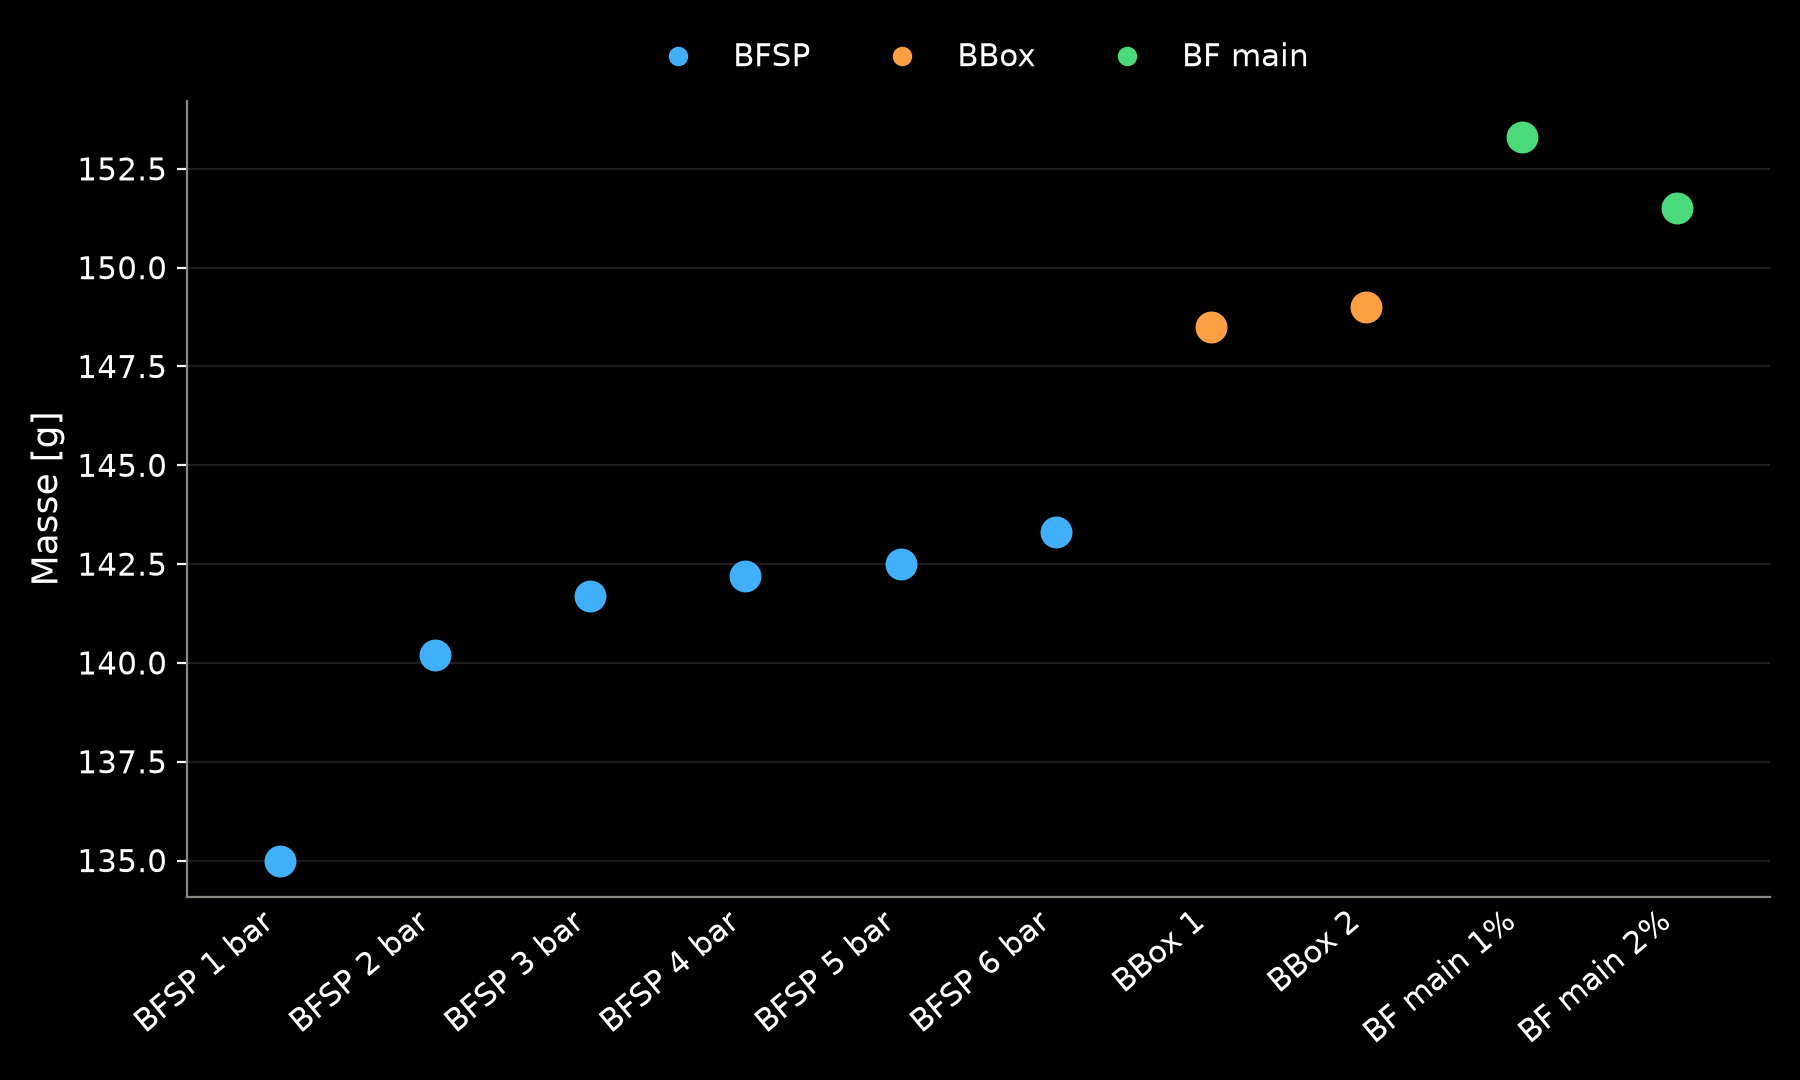
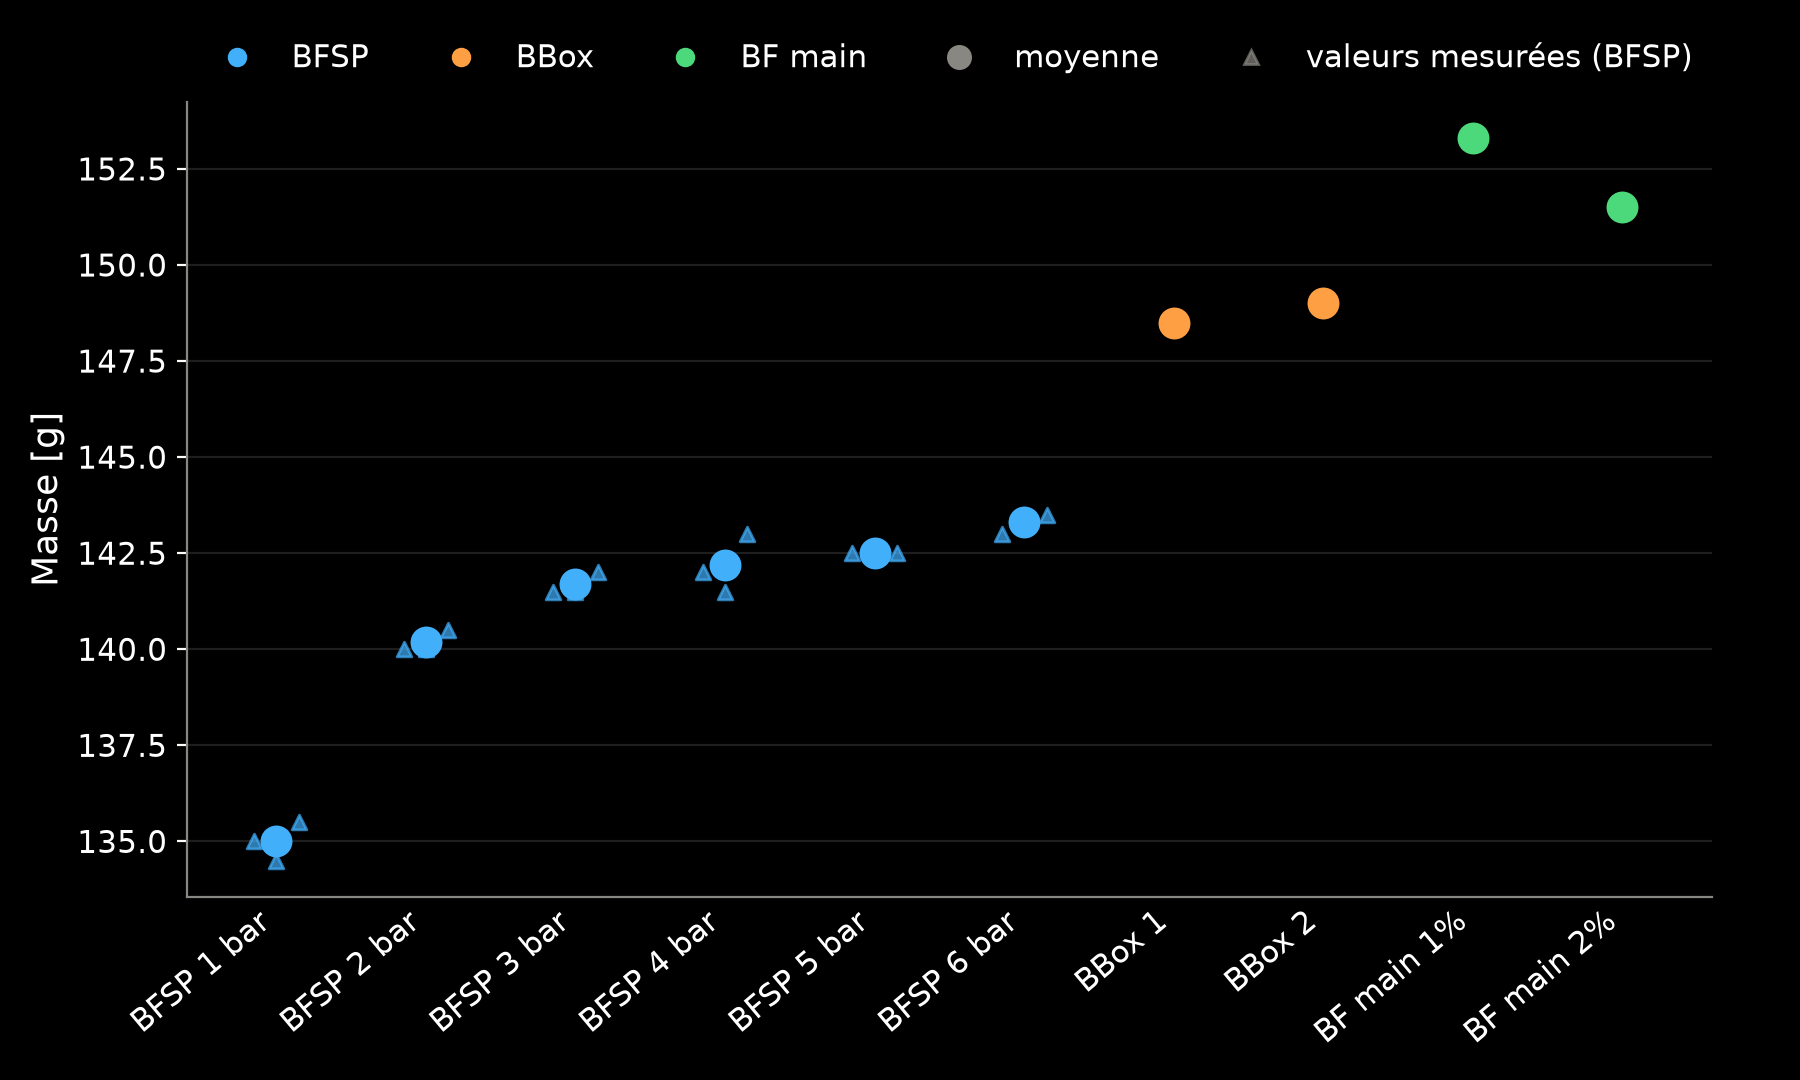
Add raw BFSP values as small triangles

diff --git a/scripts/plot_scatter.py b/scripts/plot_scatter.py
@@ -1,9 +1,11 @@
 """Scatterplots for Tableau 1-3 (masse, permeabilite, cisaillement), light + dark.
 
-One dot per sample, read from the first tbl-1 / tbl-2 / tbl-3 table in index.html
+One dot per sample (the mean), read from the first tbl-1 / tbl-2 / tbl-3 table in index.html
 so the slides and the plots share one source. Colour = method (BFSP, BBox, BF main).
+BFSP raw (non averaged) values from data/bfsp_raw.csv are added as small triangles.
 Writes figures/{masse,permeabilite,cisaillement}_{light,dark}.png.
 """
+import csv
 import re
 from pathlib import Path
 
@@ -38,6 +40,13 @@ def read_table(table_id):
     return out
 
 
+raw = {}
+with open(root / "data" / "bfsp_raw.csv") as f:
+    for r in csv.DictReader(f):
+        raw.setdefault(r["quantity"], {})[int(r["pression"])] = [
+            float(r[p]) for p in ("fond", "milieu", "devant")]
+
+
 def group_of(name):
     return next(g for g in ("BFSP", "BBox", "BF main") if name.startswith(g))
 
@@ -48,7 +57,12 @@ for q, (table_id, label) in QUANTITIES.items():
         fig, ax = plt.subplots(figsize=(9, 5.4), dpi=200, facecolor=c["bg"])
         ax.set_facecolor(c["bg"])
         for x, (name, v) in enumerate(pts):
-            ax.scatter(x, v, s=110, color=COLORS[group_of(name)], zorder=3)
+            col = COLORS[group_of(name)]
+            ax.scatter(x, v, s=110, color=col, zorder=3)
+            if name.startswith("BFSP"):
+                vals = raw[q][int(name.split()[1])]
+                ax.scatter([x - 0.15, x, x + 0.15], vals, s=28, marker="^", color=col,
+                           alpha=0.7, zorder=4)
         ax.set_xticks(range(len(pts)), [n for n, _ in pts], rotation=40, ha="right",
                       color=c["fg"], fontsize=11)
         ax.tick_params(axis="y", colors=c["fg"], labelsize=11)
@@ -63,7 +77,11 @@ for q, (table_id, label) in QUANTITIES.items():
         ax.set_xlim(-0.6, len(pts) - 0.4)
         handles = [Line2D([], [], marker="o", linestyle="", color=col, label=g)
                    for g, col in COLORS.items()]
-        ax.legend(handles=handles, loc="lower center", bbox_to_anchor=(0.5, 1.0), ncol=3,
+        handles += [Line2D([], [], marker="o", linestyle="", color=c["muted"], markersize=8,
+                           label="moyenne"),
+                    Line2D([], [], marker="^", linestyle="", color=c["muted"], alpha=0.7,
+                           markersize=5, label="valeurs mesurées (BFSP)")]
+        ax.legend(handles=handles, loc="lower center", bbox_to_anchor=(0.5, 1.0), ncol=5,
                   frameon=False, fontsize=11, labelcolor=c["fg"])
         fig.tight_layout()
         fig.savefig(root / "figures" / f"{q}_{theme}.png", facecolor=c["bg"])
